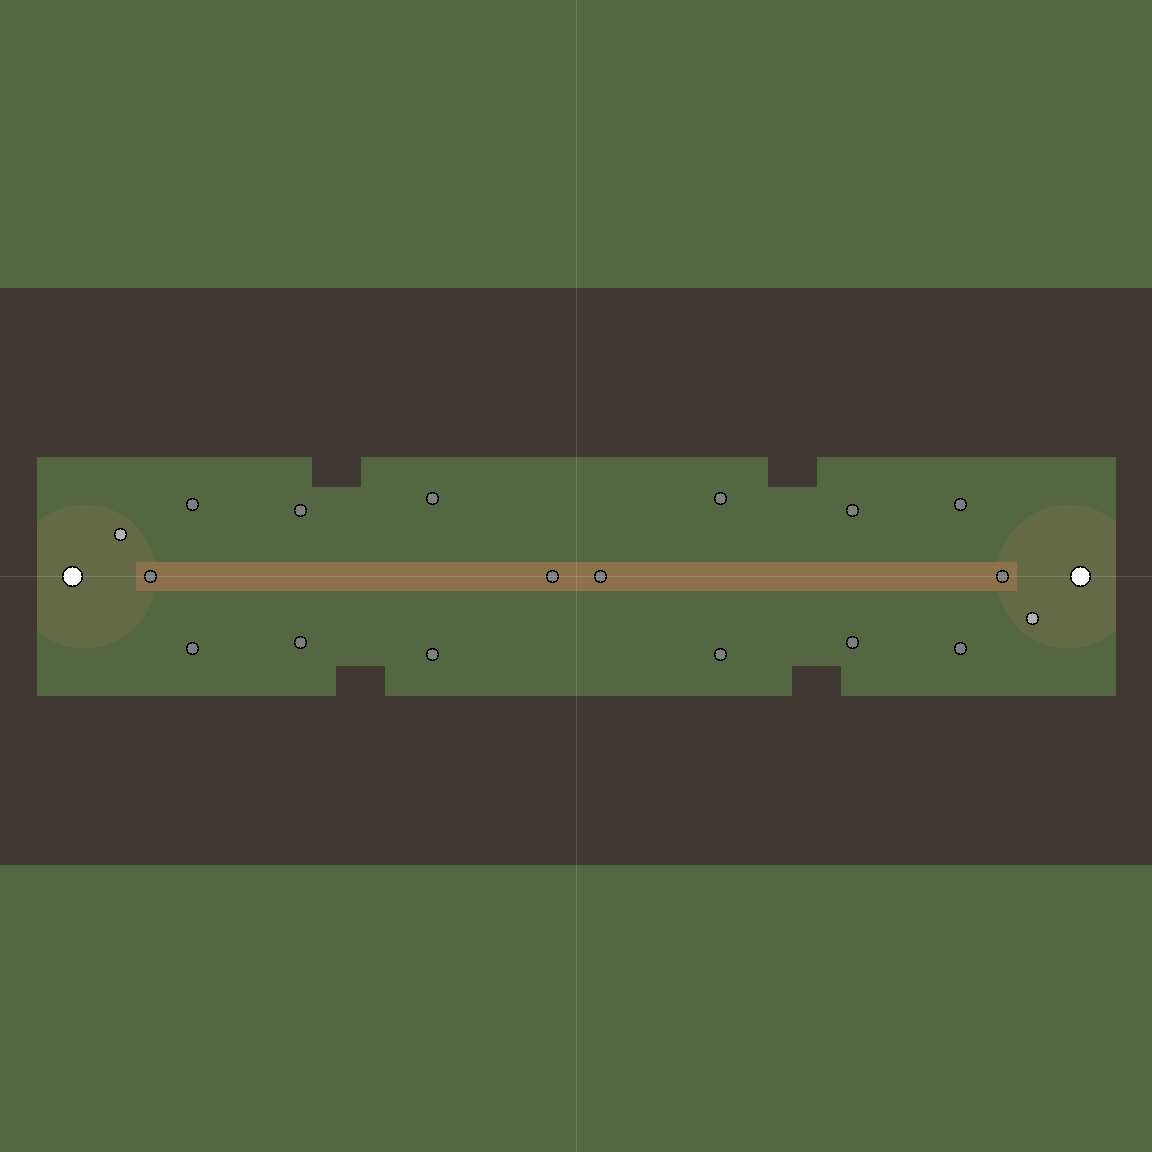
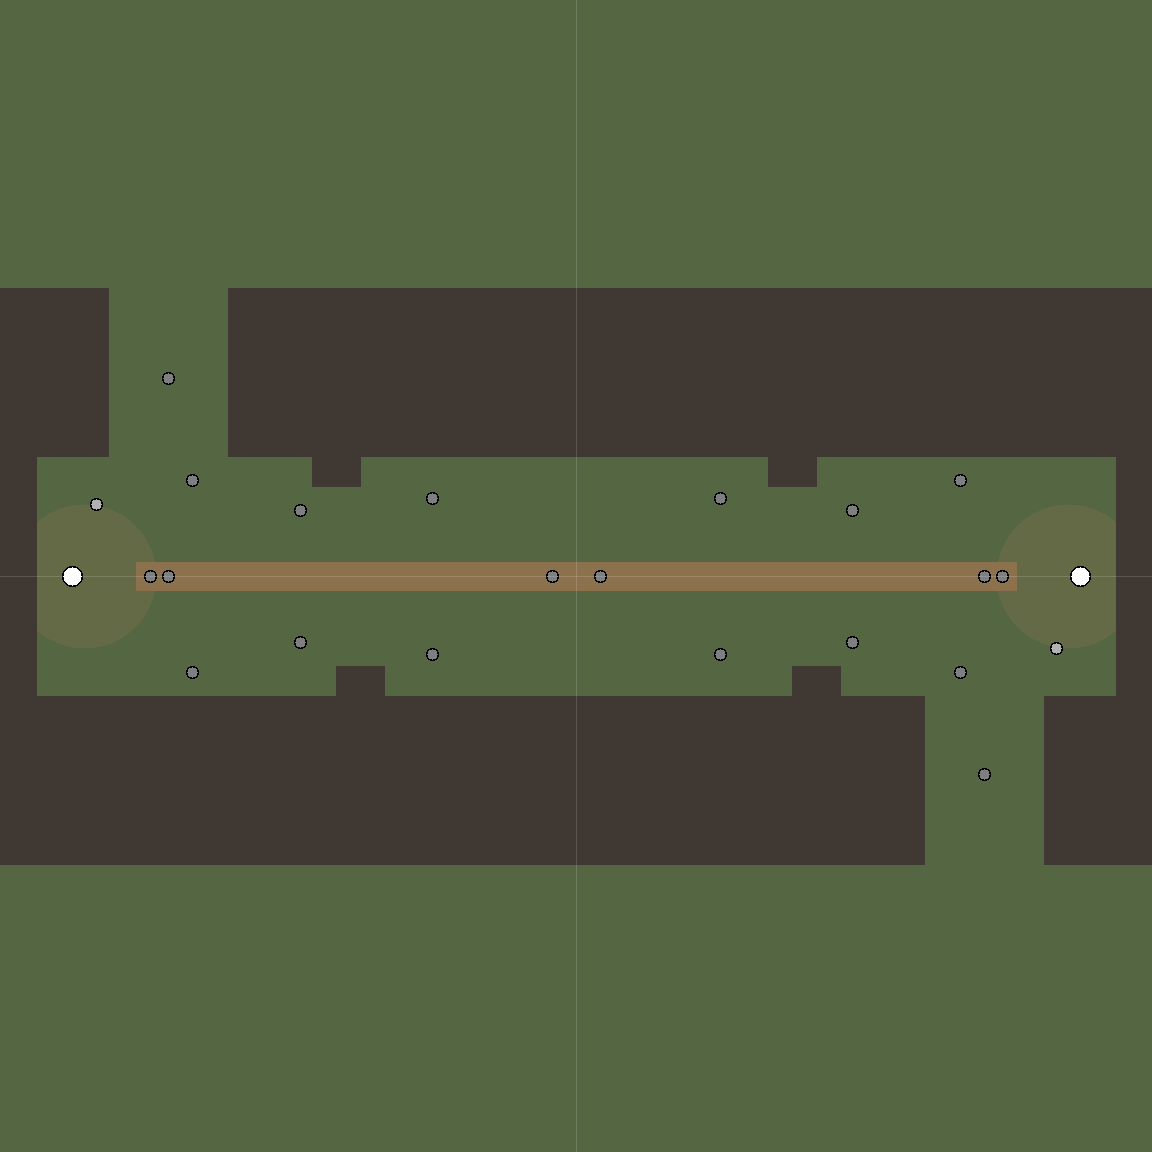
WS3.M1 Ashwind Reach: muster pad clearings + muster_pad / muster_spawn slots per seat, ring-1 towers to z +-16, wizard start out of the spawn box; Map Lab 97 / 0 FAIL (+2 forest island WARNs); test_ws3_m1

diff --git a/docs/tools/world_forge/out/ashwind_reach/map_lab/scorecard.md b/docs/tools/world_forge/out/ashwind_reach/map_lab/scorecard.md
@@ -1,22 +1,22 @@
 # Map Lab: Ashwind Reach scorecard: world_forge_ashwind_reach
 
-2026-10-06 06:40 · lab v1.0 · 3.15 s · scanned 2 spots
+2026-10-13 21:22 · lab v1.0 · 1.64 s · scanned 2 spots
 
 ## Result: **WARN** · score **97 / 100**
 
-0 FAIL · 1 WARN · 14 PASS · 6 info checks; findings: 0 FAIL, 14 WARN, 5 info
+0 FAIL · 1 WARN · 14 PASS · 6 info checks; findings: 0 FAIL, 16 WARN, 5 info
 
 ## Improve next
-1. **No navmesh islands** (WARN): island 1 at (-71.9, -33.9): 1250.6 m² of ground-level navmesh cut off from the main area (y 0.50) -> a pocket closed by colliders: widen its gap or fill it (trees / rocks) (close or open the pocket) _(from N3 2 / 16 clean (0 FAIL, 14 WARN), 3 info)_
+1. **No navmesh islands** (WARN): island 3 at (-86.9, -33.9): 448.1 m² of ground-level navmesh cut off from the main area (y 0.50) -> a pocket closed by colliders: widen its gap or fill it (trees / rocks) (close or open the pocket) _(from N3 2 / 18 clean (0 FAIL, 16 WARN), 3 info)_
 2. **Open the heat map** (IDEA): heatmap.png shows where the shortest paths crowd: the red metres are the likely fights _(from H1)_
 3. **Combat heat from bot games** (IDEA): v2: feed Bot Lab / Replay Lab unit deaths into the heat map _(from lab idea)_
 
 ## Navmesh (reachability, islands)
 | # | Check | Result | Measured | Rule | Fix hint |
 |---|---|---|---|---|---|
-| N1 | Navmesh baked | PASS 100 | 134 polygons, main area 6644 m² (18 % of the 192 m map), ground y 0.50 | polygons > 0; main walkable area shown |  |
+| N1 | Navmesh baked | PASS 100 | 155 polygons, main area 7699 m² (21 % of the 192 m map), ground y 0.50 | polygons > 0; main walkable area shown |  |
 | N2 | Every spot reachable | PASS 100 | 2 / 2 clean | a path from the first keep ends within 1.0 m of each spot; spot <= 6 m from the navmesh |  |
-| N3 | No navmesh islands | **WARN** 39 | 2 / 16 clean (0 FAIL, 14 WARN), 3 info | ground-level components other than the main one < 2 m² | close or open the pocket |
+| N3 | No navmesh islands | **WARN** 39 | 2 / 18 clean (0 FAIL, 16 WARN), 3 info | ground-level components other than the main one < 2 m² | close or open the pocket |
 | R5 | Engine limits | PASS 100 | 0 half widths ok, 0 arms ok, 0 circles ok, 0 segments ok, 192 x 96 m ok, 2 spots ok, 1.28x ok | one half width, <= 2 arms, <= 4 circles, <= 16 segments, <= 192 m, <= 140 spots, raster <= 2.5x CH |  |
 | R6 | Mission marks / triggers / paths reachable | PASS 100 | 5 / 5 clean | every mark, trigger centre and path point reachable from the player's keep; spawns > 20 m from it |  |
 
@@ -26,7 +26,7 @@
 | M1 | Every live spot has its mirror twins | PASS 100 | 2 / 2 clean | same kind within 1.0 m of each symmetry image |  |
 | M4 | Spots meet the navmesh at mirrored points | PASS 100 | 2 / 2 clean | each spot's navmesh point vs its twin's, mirrored back: <= 1 m |  |
 | M2 | Spot constants mirror | PASS 100 | 0 / 0 clean | every position constant of preview_level.gd: all entries have a twin under each symmetry (+-0.05 m) with the same kind / sizes / timings, or the list is one-sided (mirrored in code) |  |
-| M3 | Navmesh mirrors itself | PASS 100 | 0.03 % (36 cells) | cells walkable on one side only (1-cell edge noise ignored): WARN > 0.3 %, FAIL > 2 % |  |
+| M3 | Navmesh mirrors itself | PASS 100 | 0.03 % (40 cells) | cells walkable on one side only (1-cell edge noise ignored): WARN > 0.3 %, FAIL > 2 % |  |
 
 ## Path fairness (navmesh path lengths between every pair of spots)
 | # | Check | Result | Measured | Rule | Fix hint |
@@ -59,20 +59,22 @@
 ## Findings (FAIL and WARN)
 | Sev | Check | Where | What | Fix |
 |---|---|---|---|---|
-| WARN | N3 | island 1 at (-71.9, -33.9) | 1250.6 m² of ground-level navmesh cut off from the main area (y 0.50) | a pocket closed by colliders: widen its gap or fill it (trees / rocks) |
-| WARN | N3 | island 2 at (-23.9, -33.9) | 1250.6 m² of ground-level navmesh cut off from the main area (y 0.50) | a pocket closed by colliders: widen its gap or fill it (trees / rocks) |
-| WARN | N3 | island 3 at (24.1, -33.9) | 1250.6 m² of ground-level navmesh cut off from the main area (y 0.50) | a pocket closed by colliders: widen its gap or fill it (trees / rocks) |
-| WARN | N3 | island 4 at (72.1, -33.9) | 1250.6 m² of ground-level navmesh cut off from the main area (y 0.50) | a pocket closed by colliders: widen its gap or fill it (trees / rocks) |
-| WARN | N3 | island 5 at (-92.9, 0.1) | 184.1 m² of ground-level navmesh cut off from the main area (y 0.50) | a pocket closed by colliders: widen its gap or fill it (trees / rocks) |
-| WARN | N3 | island 7 at (-39.9, -17.4) | 25.3 m² of ground-level navmesh cut off from the main area (y 0.50) | a pocket closed by colliders: widen its gap or fill it (trees / rocks) |
-| WARN | N3 | island 8 at (36.1, -17.4) | 25.3 m² of ground-level navmesh cut off from the main area (y 0.50) | a pocket closed by colliders: widen its gap or fill it (trees / rocks) |
-| WARN | N3 | island 9 at (93.1, 0.1) | 184.1 m² of ground-level navmesh cut off from the main area (y 0.50) | a pocket closed by colliders: widen its gap or fill it (trees / rocks) |
-| WARN | N3 | island 14 at (-35.9, 17.6) | 25.3 m² of ground-level navmesh cut off from the main area (y 0.50) | a pocket closed by colliders: widen its gap or fill it (trees / rocks) |
-| WARN | N3 | island 15 at (40.1, 17.6) | 25.3 m² of ground-level navmesh cut off from the main area (y 0.50) | a pocket closed by colliders: widen its gap or fill it (trees / rocks) |
-| WARN | N3 | island 16 at (-71.9, 34.0) | 1238.9 m² of ground-level navmesh cut off from the main area (y 0.50) | a pocket closed by colliders: widen its gap or fill it (trees / rocks) |
-| WARN | N3 | island 17 at (-23.9, 34.0) | 1238.9 m² of ground-level navmesh cut off from the main area (y 0.50) | a pocket closed by colliders: widen its gap or fill it (trees / rocks) |
-| WARN | N3 | island 18 at (24.1, 34.0) | 1238.9 m² of ground-level navmesh cut off from the main area (y 0.50) | a pocket closed by colliders: widen its gap or fill it (trees / rocks) |
-| WARN | N3 | island 19 at (72.1, 34.0) | 1238.9 m² of ground-level navmesh cut off from the main area (y 0.50) | a pocket closed by colliders: widen its gap or fill it (trees / rocks) |
+| WARN | N3 | island 3 at (-86.9, -33.9) | 448.1 m² of ground-level navmesh cut off from the main area (y 0.50) | a pocket closed by colliders: widen its gap or fill it (trees / rocks) |
+| WARN | N3 | island 4 at (-52.9, -33.9) | 234.1 m² of ground-level navmesh cut off from the main area (y 0.50) | a pocket closed by colliders: widen its gap or fill it (trees / rocks) |
+| WARN | N3 | island 5 at (-23.9, -33.9) | 1250.6 m² of ground-level navmesh cut off from the main area (y 0.50) | a pocket closed by colliders: widen its gap or fill it (trees / rocks) |
+| WARN | N3 | island 6 at (24.1, -33.9) | 1250.6 m² of ground-level navmesh cut off from the main area (y 0.50) | a pocket closed by colliders: widen its gap or fill it (trees / rocks) |
+| WARN | N3 | island 7 at (72.1, -33.9) | 1250.6 m² of ground-level navmesh cut off from the main area (y 0.50) | a pocket closed by colliders: widen its gap or fill it (trees / rocks) |
+| WARN | N3 | island 8 at (-92.9, 0.1) | 184.1 m² of ground-level navmesh cut off from the main area (y 0.50) | a pocket closed by colliders: widen its gap or fill it (trees / rocks) |
+| WARN | N3 | island 9 at (-39.9, -17.4) | 25.3 m² of ground-level navmesh cut off from the main area (y 0.50) | a pocket closed by colliders: widen its gap or fill it (trees / rocks) |
+| WARN | N3 | island 10 at (36.1, -17.4) | 25.3 m² of ground-level navmesh cut off from the main area (y 0.50) | a pocket closed by colliders: widen its gap or fill it (trees / rocks) |
+| WARN | N3 | island 11 at (93.1, 0.1) | 184.1 m² of ground-level navmesh cut off from the main area (y 0.50) | a pocket closed by colliders: widen its gap or fill it (trees / rocks) |
+| WARN | N3 | island 16 at (-35.9, 17.6) | 25.3 m² of ground-level navmesh cut off from the main area (y 0.50) | a pocket closed by colliders: widen its gap or fill it (trees / rocks) |
+| WARN | N3 | island 17 at (40.1, 17.6) | 25.3 m² of ground-level navmesh cut off from the main area (y 0.50) | a pocket closed by colliders: widen its gap or fill it (trees / rocks) |
+| WARN | N3 | island 18 at (-71.9, 34.0) | 1238.9 m² of ground-level navmesh cut off from the main area (y 0.50) | a pocket closed by colliders: widen its gap or fill it (trees / rocks) |
+| WARN | N3 | island 19 at (-23.9, 34.0) | 1238.9 m² of ground-level navmesh cut off from the main area (y 0.50) | a pocket closed by colliders: widen its gap or fill it (trees / rocks) |
+| WARN | N3 | island 20 at (24.1, 34.0) | 1238.9 m² of ground-level navmesh cut off from the main area (y 0.50) | a pocket closed by colliders: widen its gap or fill it (trees / rocks) |
+| WARN | N3 | island 21 at (53.1, 34.0) | 231.9 m² of ground-level navmesh cut off from the main area (y 0.50) | a pocket closed by colliders: widen its gap or fill it (trees / rocks) |
+| WARN | N3 | island 22 at (87.1, 34.0) | 443.9 m² of ground-level navmesh cut off from the main area (y 0.50) | a pocket closed by colliders: widen its gap or fill it (trees / rocks) |
 
 ## Spot navmesh points (half_turn)
 | Spot | Kind | Position | On navmesh at | Twin | Twin's point, mirrored back | Gap |
@@ -120,9 +122,9 @@
 | 3 | (36.5, 1.5) | 1 | 100 % |
 | 4 | (-0.5, 0.5) | 1 | 100 % |
 | 5 | (7.5, 0.5) | 1 | 100 % |
-| 6 | (62.5, 2.5) | 1 | 100 % |
-| 7 | (70.5, 3.5) | 1 | 100 % |
-| 8 | (78.5, 3.5) | 1 | 100 % |
+| 6 | (61.5, 2.5) | 1 | 100 % |
+| 7 | (69.5, 3.5) | 1 | 100 % |
+| 8 | (77.5, 3.5) | 1 | 100 % |
 | 9 | (44.5, 2.5) | 1 | 100 % |
 | 10 | (52.5, 2.5) | 1 | 100 % |
 
@@ -130,14 +132,14 @@
 ## Info findings (5)
 | Check | Where | What |
 |---|---|---|
-| N3 | island 12 at (-83.9, 0.1) | 22.6 m² inside the footprint of keep_t0 (unreachable by design) |
-| N3 | island 13 at (84.1, 0.1) | 22.6 m² inside the footprint of keep_t1 (unreachable by design) |
-| N3 | raised islands | 3 islands on top of colliders (446 m², more than 0.3 m above / below the ground navmesh): harmless |
+| N3 | island 14 at (-83.9, 0.1) | 22.6 m² inside the footprint of keep_t0 (unreachable by design) |
+| N3 | island 15 at (84.1, 0.1) | 22.6 m² inside the footprint of keep_t1 (unreachable by design) |
+| N3 | raised islands | 4 islands on top of colliders (444 m², more than 0.3 m above / below the ground navmesh): harmless |
 | M3 | 4 m tile at (82.0, -2.0) | 12 cells (0.8 m²) walkable on one side only (half_turn) |
 | M3 | 4 m tile at (-82.0, 2.0) | 12 cells (0.8 m²) walkable on one side only (half_turn) |
 
 ## Notes
-- Octile grid shortest paths (0.5 m, 2 sources) 0.36 s.
+- Octile grid shortest paths (0.5 m, 2 sources) 0.22 s.
 - Map Lab v2 (map-production.md 2.5): layout ashwind_reach, 2 seats, rules none, 0 fixable findings.
-- Navmesh raster 0.95 s (134 polygons, 589824 cells of 0.25 m), spot / mirror checks 0.62 s, 1 paths 0.00 s.
-- Map Ashwind Reach, scene res://docs/tools/world_forge/out/ashwind_reach/preview.tscn, sim mode off; level load + navmesh bake 0.2 s (14 frames), lab 2.9 s. Spec: docs/design/wave-strike.md.
+- Navmesh raster 0.48 s (155 polygons, 589824 cells of 0.25 m), spot / mirror checks 0.32 s, 1 paths 0.00 s.
+- Map Ashwind Reach, scene res://docs/tools/world_forge/out/ashwind_reach/preview.tscn, sim mode off; level load + navmesh bake 0.1 s (15 frames), lab 1.5 s. Spec: docs/design/wave-strike.md.

diff --git a/docs/tools/world_forge/out/ashwind_reach/report_map.md b/docs/tools/world_forge/out/ashwind_reach/report_map.md
@@ -1,10 +1,10 @@
 # world_forge map: ashwind_reach
 
-2026-10-06 06:40:23 - `tools/world_forge/run_world_forge.ps1 map ashwind_reach` - hash `f3e95b88a4d2/be152444f62a`
+2026-10-13 21:22:27 - `tools/world_forge/run_world_forge.ps1 map ashwind_reach` - hash `52c29789ee8d/1b99de566291`
 
-## Result: **PASS** - quality **100 / 100** (previous run 70, +30)
+## Result: **PASS** - quality **100 / 100** (previous run 100, +0)
 
-0 FAIL, 0 WARN, 13 PASS, 1 info, 0 skipped, 11 s
+0 FAIL, 0 WARN, 13 PASS, 1 info, 0 skipped, 6 s
 
 ## Improve next
 
@@ -14,12 +14,12 @@
 | L1 | One keep per seat | PASS 100 | 2 keeps, 2 seats | each seat's frame maps the canonical keep onto that seat |  |
 | L2 | Spots inside the map | PASS 100 | ok | /x/ <= W/2 - 2, /z/ <= D/2 - 2 (192 x 96 m) |  |
 | L3 | Spot spacing | PASS 100 | ok | >= 3 m between spots, >= 6 m between structures (keep, tavern, peddler, post, guild, point), one den + one lodge per image (slots / starts excepted) |  |
-| L4 | Spot counts | INFO | keep 2, start 2, slot 16; crossings 0, roads 2, zones 2, blocks 14 | compare with the design doc's count table |  |
+| L4 | Spot counts | INFO | keep 2, start 2, slot 20; crossings 0, roads 2, zones 2, blocks 16 | compare with the design doc's count table |  |
 
 ## Navmesh
 | # | Check | Result | Measured | Rule | Fix hint |
 |---|---|---|---|---|---|
-| N0 | Navmesh bakes | PASS 100 | 134 polygons in 0.1 s | the preview navmesh is ready: baked (flat ground, river / moat / keeps / blocks / forest as obstacles) or loaded from `navmesh` lines |  |
+| N0 | Navmesh bakes | PASS 100 | 155 polygons in 0.1 s | the preview navmesh is ready: baked (flat ground, river / moat / keeps / blocks / forest as obstacles) or loaded from `navmesh` lines |  |
 
 ## Map Lab
 | # | Check | Result | Measured | Rule | Fix hint |
@@ -28,7 +28,7 @@
 | LAB.M1 | Every live spot has its mirror twins | PASS 100 | 2 / 2 clean | Map Lab M1 |  |
 | LAB.M4 | Spots meet the navmesh at mirrored points | PASS 100 | 2 / 2 clean | Map Lab M4 |  |
 | LAB.M2 | Spot constants mirror | PASS 100 | 0 / 0 clean | Map Lab M2 |  |
-| LAB.M3 | Navmesh mirrors itself | PASS 100 | 0.03 % (36 cells) | Map Lab M3 |  |
+| LAB.M3 | Navmesh mirrors itself | PASS 100 | 0.03 % (40 cells) | Map Lab M3 |  |
 | LAB.F1 | Map geometry: path pairs match their mirror twins | PASS 100 | 1 / 1 pairs within 2 % (0 FAIL, 0 WARN, 0 info) | Map Lab F1 |  |
 | LAB.R4 | Clearances (roads, crossings, spacing) | PASS 100 | 2 / 2 clean | Map Lab v2 R4 |  |
 | LAB.R5 | Engine limits | PASS 100 | 0 half widths ok, 0 arms ok, 0 circles ok, 0 segments ok, 192 x 96 m ok, 2 spots ok, 1.28x ok | Map Lab v2 R5 |  |
